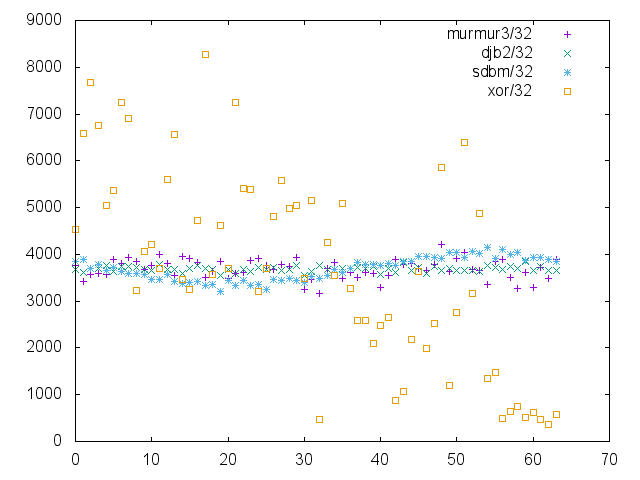
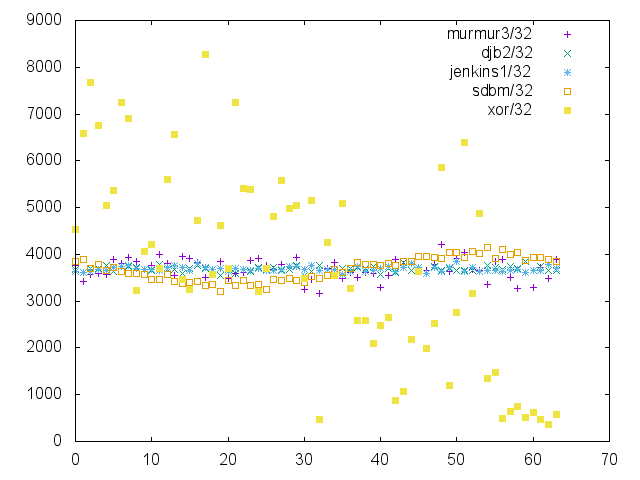
Add jenkins1/32 hash algorithm

diff --git a/algo/jenkins1.c b/algo/jenkins1.c
@@ -1,0 +1,36 @@
+/* Copyright (c) 2016 James Hunt
+
+   Permission is hereby granted, free of charge, to any person obtaining a copy
+   of this software and associated documentation files (the "Software"), to
+   deal in the Software without restriction, including without limitation the
+   rights to use, copy, modify, merge, publish, distribute, sublicense, and/or
+   sell copies of the Software, and to permit persons to whom the Software is
+   furnished to do so, subject to the following conditions:
+
+   The above copyright notice and this permission notice shall be included in
+   all copies or substantial portions of the Software.
+
+   THE SOFTWARE IS PROVIDED "AS IS", WITHOUT WARRANTY OF ANY KIND, EXPRESS OR
+   IMPLIED, INCLUDING BUT NOT LIMITED TO THE WARRANTIES OF MERCHANTABILITY,
+   FITNESS FOR A PARTICULAR PURPOSE AND NONINFRINGEMENT. IN NO EVENT SHALL THE
+   AUTHORS OR COPYRIGHT HOLDERS BE LIABLE FOR ANY CLAIM, DAMAGES OR OTHER
+   LIABILITY, WHETHER IN AN ACTION OF CONTRACT, TORT OR OTHERWISE, ARISING
+   FROM, OUT OF OR IN CONNECTION WITH THE SOFTWARE OR THE USE OR OTHER DEALINGS
+   IN THE SOFTWARE.
+*/
+
+unsigned int jenkins1_32(const char *str, unsigned long len, unsigned int seed)
+{
+	unsigned int hash;
+	unsigned long i;
+
+	for(hash = i = 0; i < len; ++i) {
+		hash += str[i];
+		hash += (hash << 10);
+		hash ^= (hash >> 6);
+	}
+	hash += (hash << 3);
+	hash ^= (hash >> 11);
+	hash += (hash << 15);
+	return hash;
+}

diff --git a/run.c b/run.c
@@ -27,6 +27,7 @@ typedef unsigned int (*hash_fn)(const char*, unsigned long, unsigned int);
 #define HASH_FN(f) extern unsigned int (f)(const char*, unsigned long, unsigned int)
 HASH_FN(murmur3_32);
 HASH_FN(djb2_32);
+HASH_FN(jenkins1_32);
 HASH_FN(sdbm_32);
 HASH_FN(xor_32);
 #undef HASH_FN
@@ -39,6 +40,7 @@ static void usage(const char *name)
 	fprintf(stderr, "Supported hash algorithms:\n"
 	                "  - murmur3_32\n"
 	                "  - djb2_32\n"
+	                "  - jenkins1_32\n"
 	                "  - sdbm_32\n"
 	                "  - xor_32\n");
 }
@@ -77,6 +79,7 @@ int main(int argc, char **argv)
 #define CHECK(s) if (strcmp(argv[1], #s) == 0) return run(s)
 	CHECK(murmur3_32);
 	CHECK(djb2_32);
+	CHECK(jenkins1_32);
 	CHECK(sdbm_32);
 	CHECK(xor_32);
 #undef CHECK
